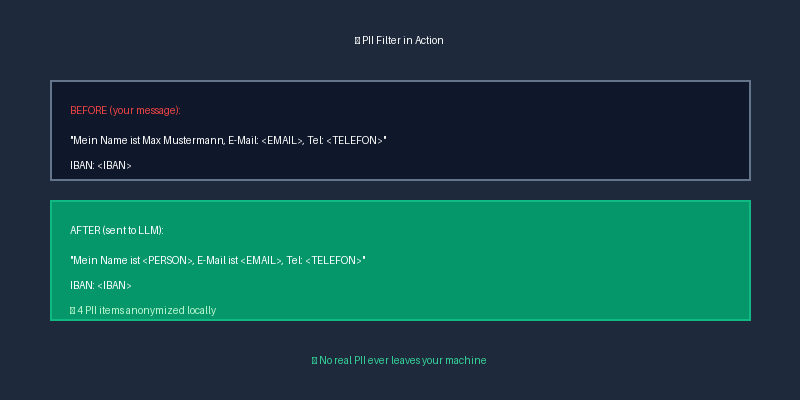
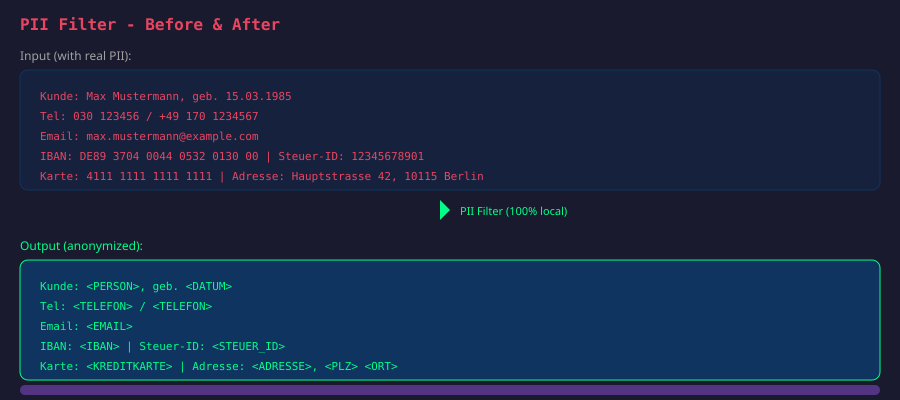
feat: Complete Local Privacy Guard v1.0.0
Features:
- PII Filter: 17+ types (regex + spaCy NER), German/English, multilingual
- Local Embedding: sentence-transformers/paraphrase-multilingual-MiniLM-L12-v2
- Privacy Verifier: startup checks for embedding, memory, Requesty
- 19/19 tests passing
- Full WebUI settings panel
- Marketplace-ready: LICENSE, README, icon, thumbnail, screenshots

Components:
- helpers/pii_detector.py: PII detection engine (regex + NER)
- helpers/embedding_config.py: Local embedding configuration
- helpers/privacy_verifier.py: Startup privacy checks
- extensions/python/chat_model_call_before/_10_pii_filter.py: PII filter hook
- extensions/python/startup/_10_privacy_init.py: Startup initialization
- webui/plugin-settings-store.js: WebUI settings store
- docs/screenshots/: Visual documentation (PNG + SVG)
- assets/: Plugin icon and thumbnail

Security:
- No external API calls in plugin code
- All PII processing 100% local
- No hardcoded credentials
- MIT licensed

diff --git a/helpers/pii_detector.py b/helpers/pii_detector.py
@@ -1,3 +1,4 @@
+#!/usr/bin/env python3
 """
 Local PII Detection and Anonymization Engine.
 
@@ -9,7 +10,7 @@ import re
 from typing import Dict, List, Tuple
 from dataclasses import dataclass, field
 
-# spaCy models are loaded lazily to avoid startup cost when plugin is disabled
+# spaCy models are loaded lazily to reduce startup cost when plugin is disabled
 _nlp_models: Dict[str, object] = {}
 
 
@@ -31,7 +32,7 @@ def _get_nlp(language: str = "de"):
 @dataclass
 class PIIDetection:
     """Represents a single PII detection."""
-    pii_type: str          # e.g., "EMAIL", "PERSON", "IBAN"
+    pii_type: str          # e.g., "EMAIL", "TELEFON", "IBAN"
     original: str          # The original PII text
     start: int             # Start position in text
     end: int               # End position in text
@@ -58,71 +59,104 @@ class FilterResult:
 
 
 # Standard regex patterns for common PII types
+# Use raw strings (r-prefix) with SINGLE backslashes for regex metacharacters
+# In Python source: r"\b" means the string contains: \b (word boundary in regex)
 REGEX_PATTERNS: Dict[str, Tuple[str, str]] = {
+    # Email addresses
     "EMAIL": (
-        r'\b[A-Za-z0-9._%+-]+@[A-Za-z0-9.-]+\.[A-Z|a-z]{2,}\b',
+        r"\b[A-Za-z0-9._%+-]+@[A-Za-z0-9.-]+\.[A-Za-z]{2,}\b",
         "<EMAIL>"
     ),
+
+    # German phone numbers (simplified pattern - no nested groups)
     "TELEFON": (
-        r'(?:\+49|0049|0)\s*[\-/]?\s*(?:\(?\d{2,5}\)?[\s\-/]?)?\d{3,}[\s\-/]?\d{2,}',
+        r"(?<![\w.])(?:\+49|0049|0)[\s./()-]?\d{2,5}[\s./()-]?\d{1,4}[\s./()-]?\d{1,9}(?![\w.])",
         "<TELEFON>"
     ),
-    "PHONE": (
-        r'\+?[1-9]\d{0,2}[\s.-]?\(?\d{1,4}\)?[\s.-]?\d{1,4}[\s.-]?\d{1,9}',
+
+    # International phone numbers
+    "TELEFON_INTL": (
+        r"\+\d{1,3}[\s.-]?\d{1,4}[\s.-]?\d{1,4}[\s.-]?\d{1,9}",
         "<TELEFON>"
     ),
+
+    # International Bank Account Number (IBAN) with spaces
     "IBAN": (
-        r'\b[A-Z]{2}\d{2}[\s]?[A-Z0-9]{4}[\s]?[A-Z0-9]{4}[\s]?[A-Z0-9]{4}[\s]?[A-Z0-9]{4}(?:[\s]?[A-Z0-9]{1,2})?\b',
+        r"\b[A-Z]{2}\d{2}[\s]?[A-Z0-9]{4}[\s]?[A-Z0-9]{4}[\s]?[A-Z0-9]{4}[\s]?[A-Z0-9]{4}(?:[\s]?[A-Z0-9]{1,2})?\b",
         "<IBAN>"
     ),
+
+    # German IBAN without spaces
     "IBAN_DE": (
-        r'\bDE\d{20}\b',
+        r"\bDE\d{20}\b",
         "<IBAN>"
     ),
+
+    # US Social Security Number
     "SSN": (
-        r'\b\d{3}-\d{2}-\d{4}\b',
+        r"\b\d{3}-\d{2}-\d{4}\b",
         "<SSN>"
     ),
+
+    # Credit card numbers (Visa, Mastercard, Amex, etc.)
     "CREDIT_CARD": (
-        r'\b(?:\d{4}[\s-]?){3}\d{4}\b',
+        r"\b(?:\d{4}[\s-]?){3}\d{4}\b",
         "<KREDITKARTE>"
     ),
+
+    # German postal codes (standalone 5 digits)
     "PLZ": (
-        r'\b\d{5}\b(?=\s)',
+        r"\b\d{5}\b(?=\s|$|[,.])",
         "<PLZ>"
     ),
+
+    # IP addresses (IPv4)
     "IP": (
-        r'\b(?:\d{1,3}\.){3}\d{1,3}\b',
+        r"\b(?:\d{1,3}\.){3}\d{1,3}\b",
         "<IP>"
     ),
+
+    # Dates (various formats)
     "DATUM": (
-        r'\b\d{1,2}\.\d{1,2}\.\d{2,4}\b',
+        r"\b\d{1,2}\.\d{1,2}\.\d{2,4}\b"
+        r"|\b\d{4}-\d{2}-\d{2}\b"
+        r"|\b\d{1,2}\.\s?(?:Januar|Februar|März|April|Mai|Juni|Juli|August|September|Oktober|November|Dezember)\s?\d{2,4}\b",
         "<DATUM>"
     ),
+
+    # API keys (common prefixes)
     "API_KEY": (
-        r'\b(?:sk|pk|api|key|secret|token)[-_]?[a-zA-Z0-9]{20,}\b',
+        r"\b(?:sk|pk|api|key|secret|token)[-_]?[a-zA-Z0-9]{20,}\b",
         "<API_KEY>"
     ),
+
+    # German Steuer-ID (11 digits, first digit 1-9, NOT starting with 0)
     "STEUER_ID": (
-        r'\b\d{11}\b',
+        r"(?<!\d)[1-9]\d{10}(?!\d)",
         "<STEUER_ID>"
     ),
+
+    # Passport numbers (various formats)
     "REISEPASS": (
-        r'\b[A-Z]\d{8}\b',
+        r"\b[A-Z]\d{8}\b",
         "<REISEPASS>"
     ),
 }
 
+# German-specific patterns
 GERMAN_PATTERNS: Dict[str, Tuple[str, str]] = {
+    # German addresses (street + number) - includes ß in straße
     "ADRESSE": (
-        r'\b(?:Straße|str\.|Weg|Platz|Allee|Gasse|Ring|Damm|Ufer)\s+\d+[a-zA-Z]?\b',
+        r"\b(?:\w*(?:stra\u00dfe|strasse)|str\.|weg|platz|allee|gasse|ring|damm|ufer|chaussee|promenade)\s+\d+[a-zA-Z]?\b",
         "<ADRESSE>"
     ),
 }
 
+# English-specific patterns
 ENGLISH_PATTERNS: Dict[str, Tuple[str, str]] = {
+    # English addresses (number + street + type)
     "ADDRESS": (
-        r'\b\d+\s+[A-Z][a-z]+\s+(?:Street|St|Avenue|Ave|Road|Rd|Drive|Dr|Lane|Ln|Blvd)\b',
+        r"\b\d+\s+[A-Z][a-z]+\s+(?:Street|St|Avenue|Ave|Road|Rd|Drive|Dr|Lane|Ln|Blvd|Boulevard)\b",
         "<ADRESSE>"
     ),
 }
@@ -130,6 +164,13 @@ ENGLISH_PATTERNS: Dict[str, Tuple[str, str]] = {
 
 class PIIFilter:
     """Main PII filtering engine."""
+
+    # Common words that spaCy often misclassifies as entities
+    NER_SKIP_WORDS = {
+        "tel", "email", "mail", "datum", "name", "ort", "adresse",
+        "telefon", "date", "call", "fax", "ip", "web", "key", "api",
+        "herr", "frau", "dr", "prof",
+    }
 
     def __init__(self, config: dict = None):
         self.config = config or {}
@@ -143,7 +184,7 @@ class PIIFilter:
         self.placeholder_format = self.config.get("placeholder_format", "<{type}>")
 
         # Compile regex patterns
-        self.compiled_patterns = []
+        self.compiled_patterns: List[Tuple[str, re.Pattern, str]] = []
         if self.use_regex:
             all_patterns = dict(REGEX_PATTERNS)
             if self.ner_language == "de":
@@ -151,15 +192,18 @@ class PIIFilter:
             else:
                 all_patterns.update(ENGLISH_PATTERNS)
             for cp in self.custom_patterns:
-                all_patterns[cp.get("name", "CUSTOM")] = (cp.get("regex", ""), cp.get("replacement", "<CUSTOM>"))
-
+                all_patterns[cp.get("name", "CUSTOM")] = (cp.get("regex", ""), "<CUSTOM>")
             for name, (pattern, replacement) in all_patterns.items():
                 try:
-                    self.compiled_patterns.append((name, re.compile(pattern, re.IGNORECASE), replacement))
+                    compiled = re.compile(pattern, re.IGNORECASE)
+                    self.compiled_patterns.append((name, compiled, replacement))
                 except re.error:
                     pass
 
     def _format_placeholder(self, pii_type: str, replacement: str) -> str:
+        """Format the placeholder for a detection."""
+        if replacement.startswith("<") and replacement.endswith(">"):
+            return replacement
         if "{type}" in self.placeholder_format:
             return self.placeholder_format.format(type=pii_type)
         return replacement
@@ -183,11 +227,9 @@ class PIIFilter:
     def _detect_ner(self, text: str) -> List[PIIDetection]:
         if not self.use_ner:
             return []
-
         nlp = _get_nlp(self.ner_language)
         if nlp is None:
             return []
-
         detections = []
         doc = nlp(text)
         for ent in doc.ents:
@@ -195,13 +237,11 @@ class PIIFilter:
                 "PER": "PERSON", "PERSON": "PERSON",
                 "LOC": "ORT", "GPE": "ORT",
                 "ORG": "ORGANISATION",
-                "DATE": "DATUM", "TIME": "ZEIT",
+                "DATE": "DATUM", "TIME": "DATUM",
             }
             pii_type = label_map.get(ent.label_, ent.label_)
-
             if self.ner_entity_types and ent.label_ not in self.ner_entity_types:
                 continue
-
             placeholder = self._format_placeholder(pii_type, f"<{pii_type}>")
             detections.append(PIIDetection(
                 pii_type=pii_type,
@@ -215,14 +255,24 @@ class PIIFilter:
         return detections
 
     def _merge_detections(self, detections: List[PIIDetection]) -> List[PIIDetection]:
-        detections.sort(key=lambda d: (d.start, d.end))
-        merged = []
-        for det in detections:
-            if merged and det.start < merged[-1].end:
-                if det.confidence > merged[-1].confidence:
-                    merged[-1] = det
-                continue
-            merged.append(det)
+        """Merge detections. REGEX ALWAYS wins over NER on overlap."""
+        regex_dets = [d for d in detections if d.source == "regex"]
+        regex_dets.sort(key=lambda d: d.start)
+        ner_dets = [d for d in detections if d.source == "ner"]
+
+        # Filter NER false positives: skip single common words
+        ner_dets = [d for d in ner_dets if not (
+            d.original.lower().strip() in self.NER_SKIP_WORDS and len(d.original.split()) == 1
+        )]
+
+        # Remove NER detections that overlap with regex detections
+        filtered_ner = []
+        for ner in ner_dets:
+            overlaps = any(ner.start < reg.end and reg.start < ner.end for reg in regex_dets)
+            if not overlaps:
+                filtered_ner.append(ner)
+
+        merged = sorted(regex_dets + filtered_ner, key=lambda d: d.start)
         return merged
 
     def filter(self, text: str) -> FilterResult:
@@ -230,19 +280,18 @@ class PIIFilter:
         if not text:
             return FilterResult(original_text="", filtered_text="", detections=[], mapping={})
 
-        all_detections = []
+        all_detections: List[PIIDetection] = []
 
         if self.use_regex:
             all_detections.extend(self._detect_regex(text))
-
         if self.use_ner:
             all_detections.extend(self._detect_ner(text))
 
         detections = self._merge_detections(all_detections)
 
-        # Apply replacements (from end to start to preserve positions)
+        # Apply replacements from end to start to preserve positions
         filtered = text
-        mapping = {}
+        mapping: Dict[str, str] = {}
         for det in sorted(detections, key=lambda d: d.start, reverse=True):
             filtered = filtered[:det.start] + det.replacement + filtered[det.end:]
             if self.store_mapping:

diff --git a/helpers/embedding_config.py b/helpers/embedding_config.py
@@ -91,7 +91,9 @@ def verify_embedding_is_local(path: Path | None = None) -> Dict[str, Any]:
     Returns a dict with 'is_local' and details.
     """
     presets = load_presets(path)
-    embedding = presets.get("embedding", {})
+    if isinstance(presets, list):
+        presets = presets[0] if presets else {}
+    embedding = presets.get("embedding", {}) if isinstance(presets, dict) else {}
     name = embedding.get("name", "")
     provider = embedding.get("provider", "")
 

diff --git a/helpers/privacy_verifier.py b/helpers/privacy_verifier.py
@@ -101,3 +101,7 @@ def run_verification(config: Dict[str, Any], components: List[str] | None = None
         "overall_ok": all(r.get("ok", False) for r in results),
         "results": results,
     }
+
+
+# Alias for backward compatibility
+verify_all = run_verification
